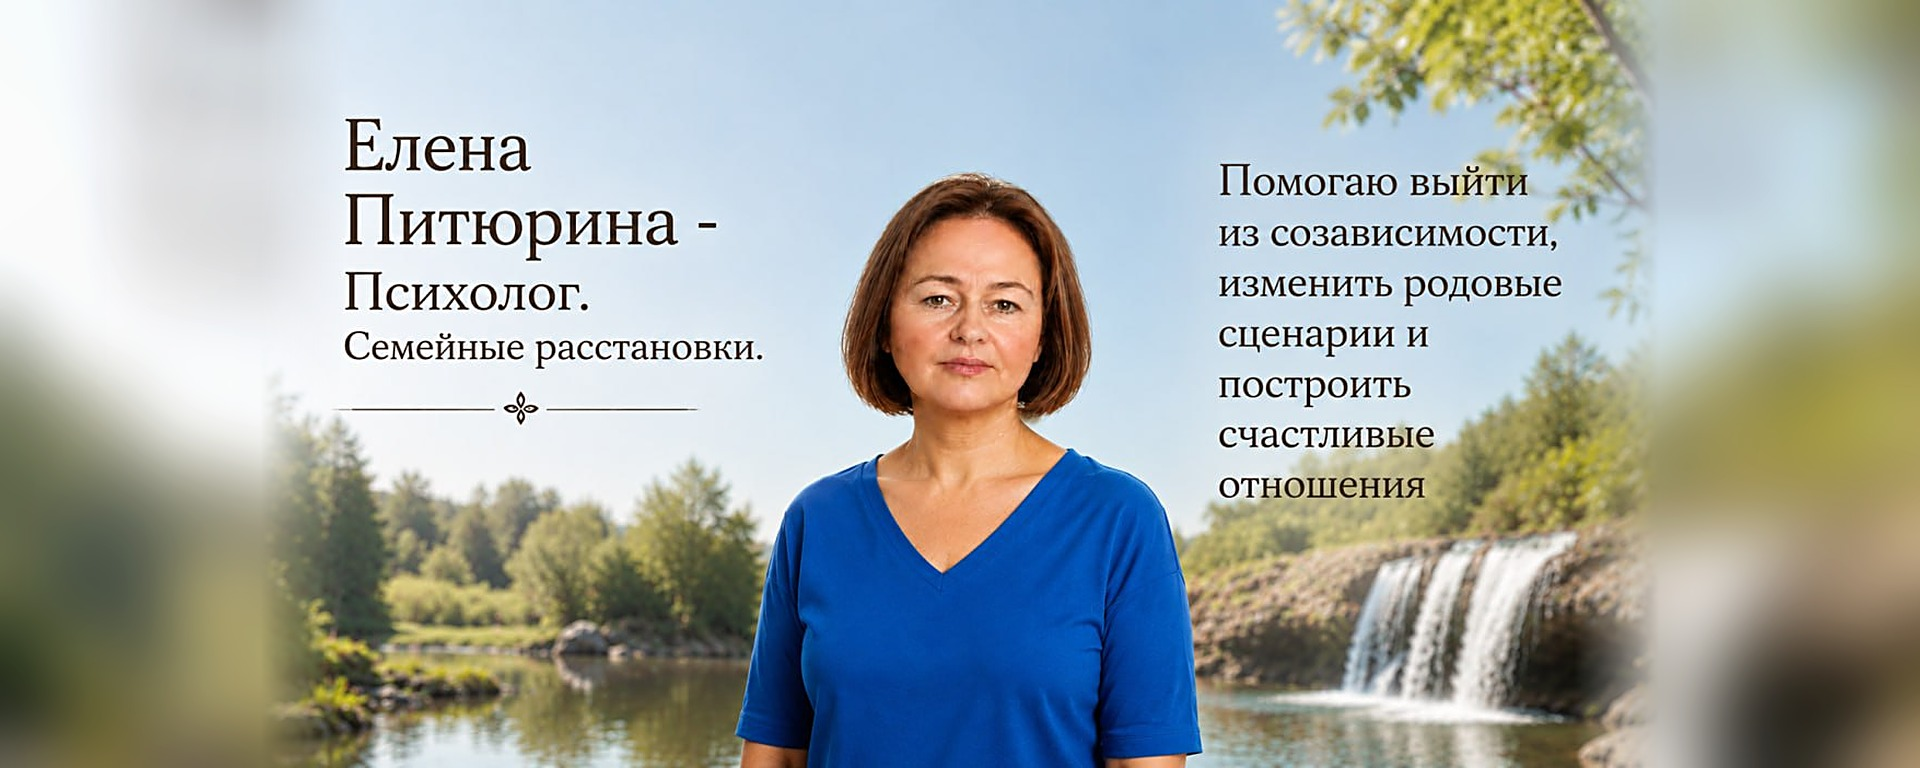
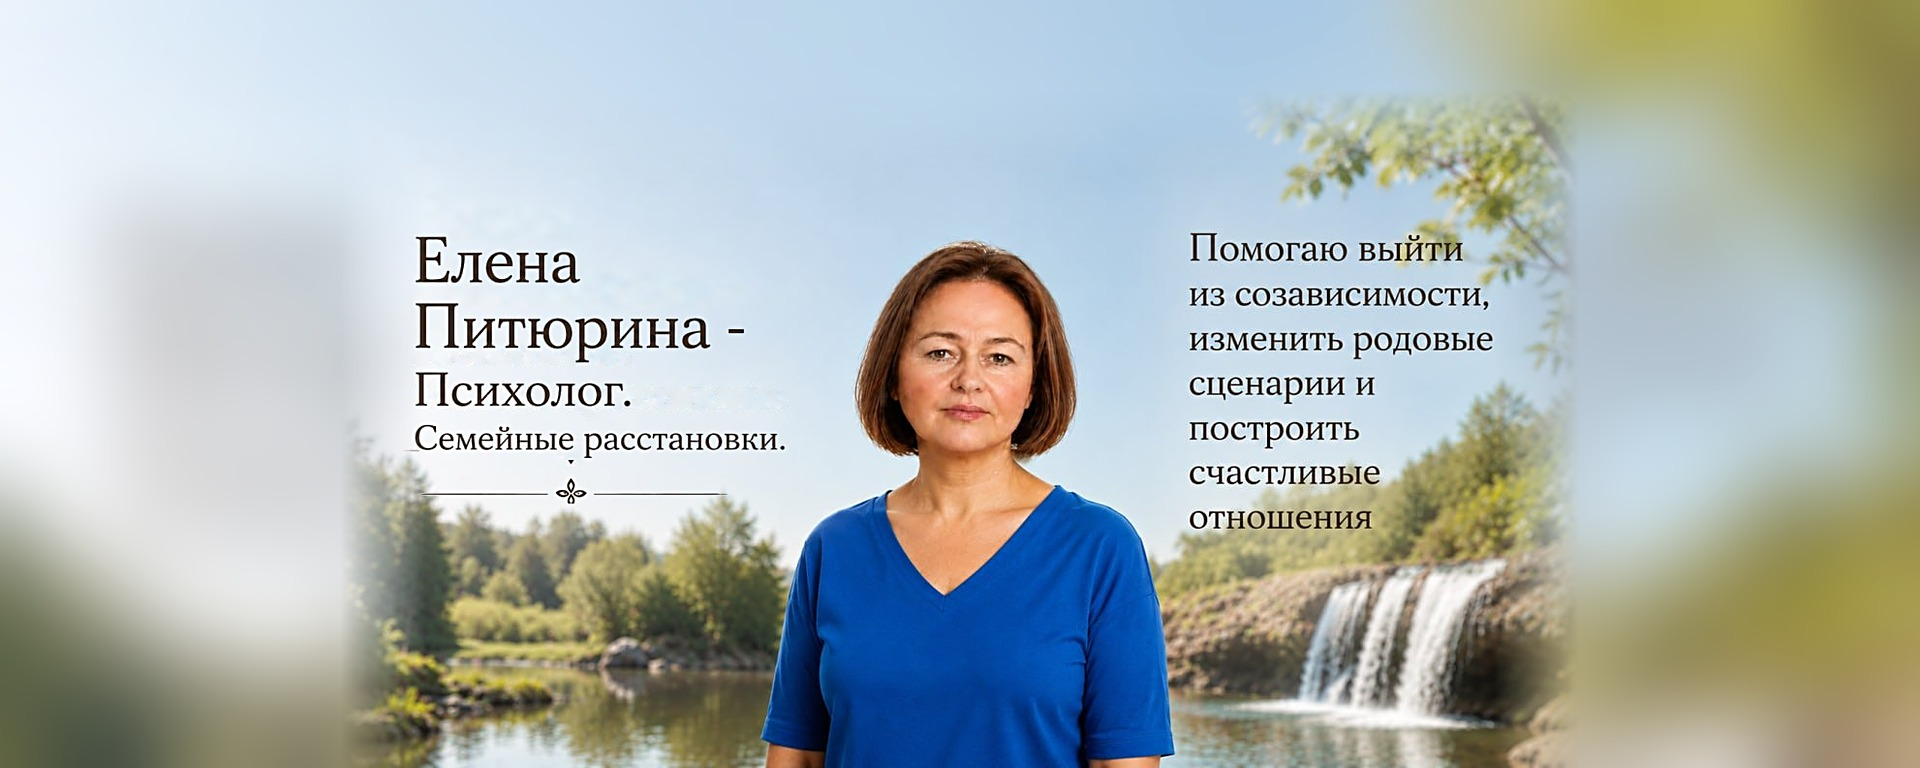
Align left text block to right block level; keep all text in VK safe zone
- fix_left_text.py: move the left text block ("Елена Питюрина / Психолог /
  Семейные расстановки" + ornament) down 45px so its top lines up with
  "Помогаю выйти"; text extracted as a soft-alpha layer, old position
  inpainted (harmonic fill) and smoothed.
- make_vk_cover_1920.py: fit content by width (1240) and bottom-align so the
  portrait is grounded; blurred sky-top landscape fill on the sides; all text
  now sits inside both the mobile-safe width (~1196) and desktop-safe height.

Claude-Session: https://claude.ai/code/session_01Qm36tLSu6zPCKpb5dmxw7m

diff --git a/make_vk_cover_1920.py b/make_vk_cover_1920.py
@@ -1,73 +1,60 @@
 from PIL import Image, ImageFilter, ImageEnhance
 
-SRC = "/home/user/foto/source.jpg"
+SRC = "/home/user/foto/source_fixed.jpg"   # left text realigned to right block level
 OUT_PNG = "/home/user/foto/vk_cover_design_1920x768.png"
 OUT_JPG = "/home/user/foto/vk_cover_design_1920x768.jpg"
 
 W, H = 1920, 768
+CONTENT_W = 1240          # keeps text span inside VK mobile+desktop safe zone
 src = Image.open(SRC).convert("RGB")
-sw, sh = src.size  # 1280 x 702
+sw, sh = src.size
 
-# --- 1. Background: "cover" the full canvas, biased downward (more forest/river, less sky-haze) ---
-scale = max(W / sw, H / sh)                     # 1.5
-bw, bh = round(sw * scale), round(sh * scale)   # 1920 x 1053
+# --- 1. Full-bleed blurred background (cover), biased downward to landscape ---
+scale = max(W / sw, H / sh)
+bw, bh = round(sw * scale), round(sh * scale)
 bg = src.resize((bw, bh), Image.LANCZOS)
-left = (bw - W) // 2                            # 0  -> keeps x-alignment (left=forest, right=waterfall)
-top = int((bh - H) * 0.72)                      # bias down
+left = (bw - W) // 2
+top = int((bh - H) * 0.08)   # keep top = blurred SKY; blurred figure stays mid, hidden behind sharp portrait
 bg = bg.crop((left, top, left + W, top + H))
-bg = bg.filter(ImageFilter.GaussianBlur(radius=34))
-bg = ImageEnhance.Brightness(bg).enhance(1.06)
-bg = ImageEnhance.Contrast(bg).enhance(0.96)
+bg = bg.filter(ImageFilter.GaussianBlur(radius=40))
+bg = ImageEnhance.Brightness(bg).enhance(1.02)   # matched, no big step at the seam
 
-# --- 2. Sharp full banner fitted by HEIGHT (nothing cropped) ---
-fscale = H / sh
-fw, fh = round(sw * fscale), H                  # ~1400 x 768
+# --- 2. Sharp content fitted by WIDTH, BOTTOM-aligned (woman grounded) ---
+fscale = CONTENT_W / sw
+fw, fh = CONTENT_W, round(sh * fscale)   # 1240 x ~680
 fg = src.resize((fw, fh), Image.LANCZOS)
+ox = (W - fw) // 2
+oy = H - fh                              # bottom edge flush with canvas bottom
 
-# --- 3. Feathered alpha so sharp edges melt into the extension ---
+# --- 3. Feather TOP + LEFT + RIGHT only (bottom bleeds off the canvas) ---
 F = 85
 alpha = Image.new("L", (fw, fh), 255)
 px = alpha.load()
-for x in range(F):
-    v = int(255 * (x / F))
+for x in range(fw):
     for y in range(fh):
-        px[x, y] = v
-        px[fw - 1 - x, y] = v
+        d = min(x, fw - 1 - x, y)        # no bottom term -> hard bottom bleed
+        px[x, y] = 255 if d >= F else int(255 * d / F)
 
-# --- 4. Composite centered ---
 canvas = bg.copy()
-ox = (W - fw) // 2                              # ~260
-canvas.paste(fg, (ox, 0), alpha)
+canvas.paste(fg, (ox, oy), alpha)
 
-# --- 5. Airy top-corner light lift (echoes original hazy corners, no blob) ---
+# --- 4. Airy top-corner light lift (echoes original hazy corners) ---
 lift = Image.new("L", (W, H), 0)
 lpx = lift.load()
 cw = 300
 for x in range(cw):
     fx = 1 - x / cw
     for y in range(H):
-        fy = max(0.0, 1 - y / (H * 0.55))       # only upper part
-        v = int(70 * fx * fy)
+        fy = max(0.0, 1 - y / (H * 0.5))
+        v = int(50 * fx * fy)
         lpx[x, y] = v
         lpx[W - 1 - x, y] = v
-bright = ImageEnhance.Brightness(canvas).enhance(1.16)
+bright = ImageEnhance.Brightness(canvas).enhance(1.12)
 canvas = Image.composite(bright, canvas, lift)
 
-# --- 6. Whisper-soft vignette on far edges ---
-vig = Image.new("L", (W, H), 255)
-vpx = vig.load()
-edge = 160
-for x in range(edge):
-    v = int(255 * (0.93 + 0.07 * (x / edge)))
-    for y in range(H):
-        vpx[x, y] = v
-        vpx[W - 1 - x, y] = v
-dark = ImageEnhance.Brightness(canvas).enhance(0.92)
-canvas = Image.composite(canvas, dark, vig)
-
-# --- 7. Keep portrait crisp ---
-canvas = canvas.filter(ImageFilter.UnsharpMask(radius=2, percent=60, threshold=2))
+canvas = canvas.filter(ImageFilter.UnsharpMask(radius=2, percent=50, threshold=2))
 
 canvas.save(OUT_PNG)
 canvas.convert("RGB").save(OUT_JPG, quality=92)
-print("saved", canvas.size, "sharp block", (fw, fh), "at x", ox, "side margins", ox)
+print("saved", canvas.size, "content", (fw, fh), "at", (ox, oy),
+      "side margins", ox, "top strip", oy)

diff --git a/fix_left_text.py b/fix_left_text.py
@@ -1,0 +1,72 @@
+import numpy as np
+from PIL import Image
+
+SRC = "/home/user/foto/source.jpg"
+OUT = "/home/user/foto/source_fixed.jpg"
+DY = 45  # shift left block down so top of "Елена" aligns with top of "Помогаю выйти"
+
+# left text block region (x0,x1,y0,y1)
+X0, X1, Y0, Y1 = 56, 476, 96, 384
+
+img = np.asarray(Image.open(SRC).convert("RGB")).astype(np.float64)
+H, W, _ = img.shape
+
+def lum(a):
+    return a @ np.array([0.299, 0.587, 0.114])
+
+# --- 1. text alpha matte inside region (dark glyphs on light sky) ---
+sub = img[Y0:Y1, X0:X1]
+ls = lum(sub)
+
+# text mask (generous, to catch anti-aliased halos), then dilate a few px
+mask = ls < 165.0
+def dilate(m):
+    return (m | np.roll(m, 1, 0) | np.roll(m, -1, 0)
+              | np.roll(m, 1, 1) | np.roll(m, -1, 1))
+for _ in range(3):
+    mask = dilate(mask)
+
+# harmonic (Laplace) inpaint of the masked area -> clean background plate
+plate = sub.copy()
+bright_mean = sub[~mask].mean(axis=0)
+plate[mask] = bright_mean
+mk = mask.astype(np.float64)[..., None]
+for _ in range(1200):
+    up    = np.roll(plate, -1, axis=0)
+    down  = np.roll(plate,  1, axis=0)
+    left  = np.roll(plate, -1, axis=1)
+    right = np.roll(plate,  1, axis=1)
+    avg = (up + down + left + right) / 4.0
+    plate = plate * (1 - mk) + avg * mk
+
+# --- 2. continuous alpha from how much darker orig is vs clean plate ---
+lp = lum(plate)
+alpha = np.clip((lp - ls) / 60.0, 0.0, 1.0)   # 1 on solid glyph, 0 on background
+
+# --- 3. build full-size clean base (region replaced by plate) and text layer ---
+from PIL import ImageFilter
+base = img.copy()
+base[Y0:Y1, X0:X1] = plate
+# smooth faint diffusion speckle in the (mostly sky) vacated area, background only
+sky_y1 = Y0 + 170
+patch = Image.fromarray(np.clip(base[Y0:sky_y1, X0:X1], 0, 255).astype(np.uint8))
+patch = patch.filter(ImageFilter.GaussianBlur(3))
+base[Y0:sky_y1, X0:X1] = np.asarray(patch).astype(np.float64)
+
+alpha_full = np.zeros((H, W))
+color_full = np.zeros((H, W, 3))
+alpha_full[Y0:Y1, X0:X1] = alpha
+color_full[Y0:Y1, X0:X1] = sub      # original glyph colours
+
+# --- 4. shift text layer down by DY ---
+a_sh = np.zeros_like(alpha_full)
+c_sh = np.zeros_like(color_full)
+a_sh[DY:, :] = alpha_full[:-DY, :]
+c_sh[DY:, :] = color_full[:-DY, :]
+
+# --- 5. composite moved text onto clean base ---
+a3 = a_sh[..., None]
+out = base * (1 - a3) + c_sh * a3
+out = np.clip(out, 0, 255).astype(np.uint8)
+Image.fromarray(out).save(OUT, quality=95)
+print("saved", OUT, "dy", DY)
